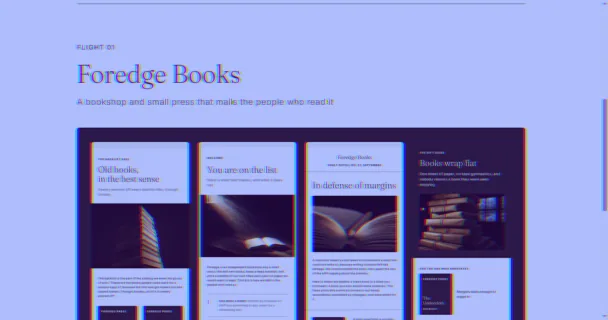
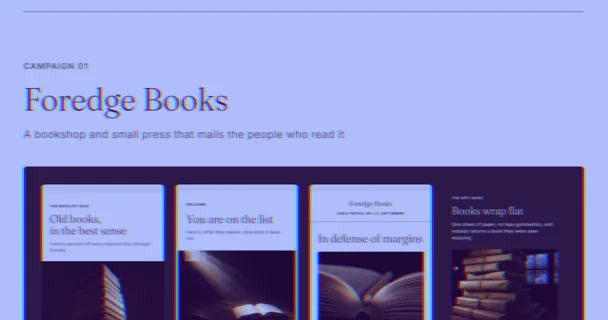
marketing: drop build metadata, rename flights to campaigns
The traffic note ("Four sends, 71 KB of HTML, zero JavaScript, no text
under 16px") and the colophon's self-hosted-fonts line are gone. The
reader screens creative, not engineering; the guarantees those numbers
stated now live only in tests/prototype-marketing.test.mjs, which checks
the shipped emails directly (four files, zero script tags, 16px floor)
and fails if build metadata reappears in the page copy.

"Flight" was media-buying lingo the owner read as confusing, so the
page now says the plain word: the masthead is "Campaigns", the feature
kicker "Campaign 01", the table's first column "No.", and the classes,
comments, and test names follow. The contract header records both cuts.

Thumbnail recaptured on the same feature framing and regraded.

diff --git a/public/prototype/marketing/css/site.css b/public/prototype/marketing/css/site.css
@@ -1,5 +1,5 @@
 /*
-  Marketing design: the flight plan
+  Marketing design: campaigns
 
   Contract
   --------
@@ -12,11 +12,13 @@
             concept one tap away. The page explains nothing in prose that
             the plan and the previews can show.
 
-  Conceit   A media plan. Concepts are flights: numbered, dated, statused.
-            The reader runs schedules like this at work, so the form needs
-            no caption. The plan carries only real data: a shipped month
-            for live work, empty cells for planned work, no invented
-            windows or brands.
+  Conceit   A campaign schedule. Concepts are numbered campaigns: dated,
+            statused, ruled like the calendars the reader runs at work.
+            The plan carries only real data: a shipped month for live
+            work, empty cells for planned work, no invented windows or
+            brands. "Flight", the media-buying word for a campaign's run
+            window, was tried and cut (owner: confusing, 2026-08-19);
+            every word on the page is plain.
 
   Palette   ink   #1a1a17  text, plates, filled controls
             paper #ffffff  canvas
@@ -27,7 +29,7 @@
 
   Type      Fraunces 300 display, up to 96px on the masthead; Inter at
             0.03em for everything else. Floor 16px. Scale is the whole
-            hierarchy. Numerals are tabular so flight numbers rail.
+            hierarchy. Numerals are tabular so campaign numbers rail.
 
   Grid      One 1200px sheet. The plan is ruled rows under a labelled
             header, and the header survives on the phone: the table is
@@ -35,16 +37,18 @@
 
   Motion    None. Zero JavaScript.
 
-  Bans      Chromatic accents. Gradients. Shadows. JavaScript. Numbers
-            the verify test cannot reproduce from the shipped files.
-            Plan rows or cells for work that is not real. Prose that
-            restates what a pill or a preview already shows.
+  Bans      Chromatic accents. Gradients. Shadows. JavaScript. Plan rows
+            or cells for work that is not real. Prose that restates what
+            a pill or a preview already shows. Build metadata in the
+            reader's view (file sizes, script counts, type floors): the
+            reader screens creative, and the verify test holds those
+            guarantees off the page.
 
   Signature The plan table, and email previews that are renders of the
             real files rather than photography standing in for them.
 
   Risk      A two-row schedule can read thin. Displaced alternative:
-            padding the table with invented future flights. The trade:
+            padding the table with invented future campaigns. The trade:
             every cell on the plan is true, and the table grows only
             when work ships.
 */
@@ -154,7 +158,7 @@ a:focus-visible {
 /* The plan */
 
 .plan-head,
-.flight-row {
+.campaign-row {
   display: grid;
   grid-template-columns: 96px 1fr 170px 130px;
   gap: 24px;
@@ -175,7 +179,7 @@ a:focus-visible {
   text-align: right;
 }
 
-.flight-row {
+.campaign-row {
   align-items: start;
   padding: 36px 0;
   border-bottom: 1px solid var(--ash);
@@ -183,7 +187,7 @@ a:focus-visible {
   color: var(--ink);
 }
 
-.flight-row .no {
+.campaign-row .no {
   font-family: var(--serif);
   font-weight: 300;
   font-variant-numeric: tabular-nums;
@@ -191,7 +195,7 @@ a:focus-visible {
   line-height: 1.1;
 }
 
-.flight-row .what {
+.campaign-row .what {
   display: block;
   font-family: var(--serif);
   font-weight: 300;
@@ -200,14 +204,14 @@ a:focus-visible {
   letter-spacing: 0.01em;
 }
 
-.flight-row .what svg {
+.campaign-row .what svg {
   margin-left: 14px;
   vertical-align: baseline;
   position: relative;
   top: 2px;
 }
 
-.flight-row .brand {
+.campaign-row .brand {
   display: block;
   margin-top: 10px;
   font-family: var(--sans);
@@ -215,23 +219,23 @@ a:focus-visible {
   color: var(--ash);
 }
 
-.flight-row .shipped {
+.campaign-row .shipped {
   font-size: 18px;
   padding-top: 12px;
 }
 
-.flight-row .status {
+.campaign-row .status {
   justify-self: end;
 }
 
-a.flight-row:hover .what {
+a.campaign-row:hover .what {
   text-decoration: underline;
   text-decoration-thickness: 1px;
   text-underline-offset: 7px;
 }
 
-.flight-row[data-status="planned"] .no,
-.flight-row[data-status="planned"] .what {
+.campaign-row[data-status="planned"] .no,
+.campaign-row[data-status="planned"] .what {
   color: var(--ash);
 }
 
@@ -255,7 +259,7 @@ a.flight-row:hover .what {
   color: var(--ash);
 }
 
-/* Flight 01 feature */
+/* Campaign 01 feature */
 
 .feature {
   padding: 96px 0 0;
@@ -336,17 +340,7 @@ a.flight-row:hover .what {
 }
 
 .traffic {
-  display: flex;
-  flex-wrap: wrap;
-  align-items: center;
-  justify-content: space-between;
-  gap: 28px;
   padding: 40px 0 0;
-}
-
-.traffic .note {
-  font-size: 18px;
-  color: var(--ash);
 }
 
 .pill {
@@ -399,7 +393,7 @@ a.flight-row:hover .what {
   }
 
   .plan-head,
-  .flight-row {
+  .campaign-row {
     grid-template-columns: 76px 1fr auto;
     gap: 14px;
   }
@@ -408,35 +402,35 @@ a.flight-row:hover .what {
     display: none;
   }
 
-  .flight-row {
+  .campaign-row {
     padding: 28px 0;
   }
 
-  .flight-row .no {
+  .campaign-row .no {
     grid-area: 1 / 1;
   }
 
-  .flight-row .main {
+  .campaign-row .main {
     grid-area: 1 / 2;
   }
 
-  .flight-row .status {
+  .campaign-row .status {
     grid-area: 1 / 3;
     padding-top: 2px;
   }
 
-  .flight-row .shipped {
+  .campaign-row .shipped {
     grid-area: 2 / 2;
     padding-top: 4px;
     font-size: 16px;
     color: var(--ash);
   }
 
-  .flight-row[data-status="planned"] .shipped {
+  .campaign-row[data-status="planned"] .shipped {
     display: none;
   }
 
-  .flight-row .what svg {
+  .campaign-row .what svg {
     width: 20px;
     height: 20px;
     margin-left: 10px;
@@ -449,10 +443,5 @@ a.flight-row:hover .what {
   .sends {
     grid-template-columns: repeat(2, 1fr);
     gap: 20px;
-  }
-
-  .traffic {
-    flex-direction: column;
-    align-items: flex-start;
   }
 }

diff --git a/public/prototype/marketing/index.html b/public/prototype/marketing/index.html
@@ -3,8 +3,8 @@
 <head>
   <meta charset="utf-8">
   <meta name="viewport" content="width=device-width, initial-scale=1">
-  <title>Marketing design flight plan</title>
-  <meta name="description" content="A media plan of spec marketing work. Flight 01 is a four-send email program for an invented bookshop, shipped as real HTML.">
+  <title>Marketing design</title>
+  <meta name="description" content="Spec marketing campaigns. Campaign 01 is a four-send email program for an invented bookshop, shipped as real HTML.">
   <link rel="stylesheet" href="/prototype/marketing/css/site.css">
 </head>
 <body>
@@ -14,18 +14,18 @@
 
     <header class="masthead">
       <p class="kicker">fullbuild.ai · Marketing design</p>
-      <h1>The flight plan</h1>
+      <h1>Campaigns</h1>
     </header>
 
     <main id="plan">
       <div class="plan-head" aria-hidden="true">
-        <span class="ph-no">Flight</span>
+        <span class="ph-no">No.</span>
         <span>Job</span>
         <span class="ph-shipped">Shipped</span>
         <span class="ph-status">Status</span>
       </div>
 
-      <a class="flight-row" data-status="live" href="/prototype/foredge">
+      <a class="campaign-row" data-status="live" href="/prototype/foredge">
         <span class="no">01</span>
         <span class="main">
           <span class="what">Marketing email<svg viewBox="0 0 24 24" width="26" height="26" fill="none" stroke="currentColor" stroke-width="1.5" aria-hidden="true"><path d="M5 12h14M13 5l7 7-7 7"/></svg></span>
@@ -35,7 +35,7 @@
         <span class="status"><span class="status-pill status-live">Live</span></span>
       </a>
 
-      <div class="flight-row" data-status="planned">
+      <div class="campaign-row" data-status="planned">
         <span class="no">02</span>
         <span class="main">
           <span class="what">Social campaign</span>
@@ -44,9 +44,9 @@
         <span class="status"><span class="status-pill status-ghost">Next</span></span>
       </div>
 
-      <section class="feature" aria-labelledby="flight01-h">
-        <p class="kicker">Flight 01</p>
-        <h2 id="flight01-h">Foredge Books</h2>
+      <section class="feature" aria-labelledby="campaign01-h">
+        <p class="kicker">Campaign 01</p>
+        <h2 id="campaign01-h">Foredge Books</h2>
         <p class="about">A bookshop and small press that mails the people who read it</p>
 
         <div class="plate">
@@ -75,7 +75,6 @@
         </div>
 
         <div class="traffic">
-          <p class="note">Four sends · 71 KB of HTML · zero JavaScript · no text under 16px</p>
           <a class="pill" href="/prototype/foredge">Open the email program<svg viewBox="0 0 24 24" width="20" height="20" fill="none" stroke="currentColor" stroke-width="1.5" aria-hidden="true"><path d="M5 12h14M13 5l7 7-7 7"/></svg></a>
         </div>
       </section>
@@ -83,7 +82,7 @@
 
     <div class="colophon">
       <p>Spec work by Ryan Allen. The shop, its titles, and its authors are invented; no retailer affiliation is implied. The photography inside the emails is generated with an image model and kept to the brand rules: blank covers, kraft paper, no legible type.</p>
-      <p>Fraunces and Inter, self-hosted. Part of <a href="/prototype">the fullbuild.ai gallery</a>.</p>
+      <p>Part of <a href="/prototype">the fullbuild.ai gallery</a>.</p>
     </div>
 
   </div>
